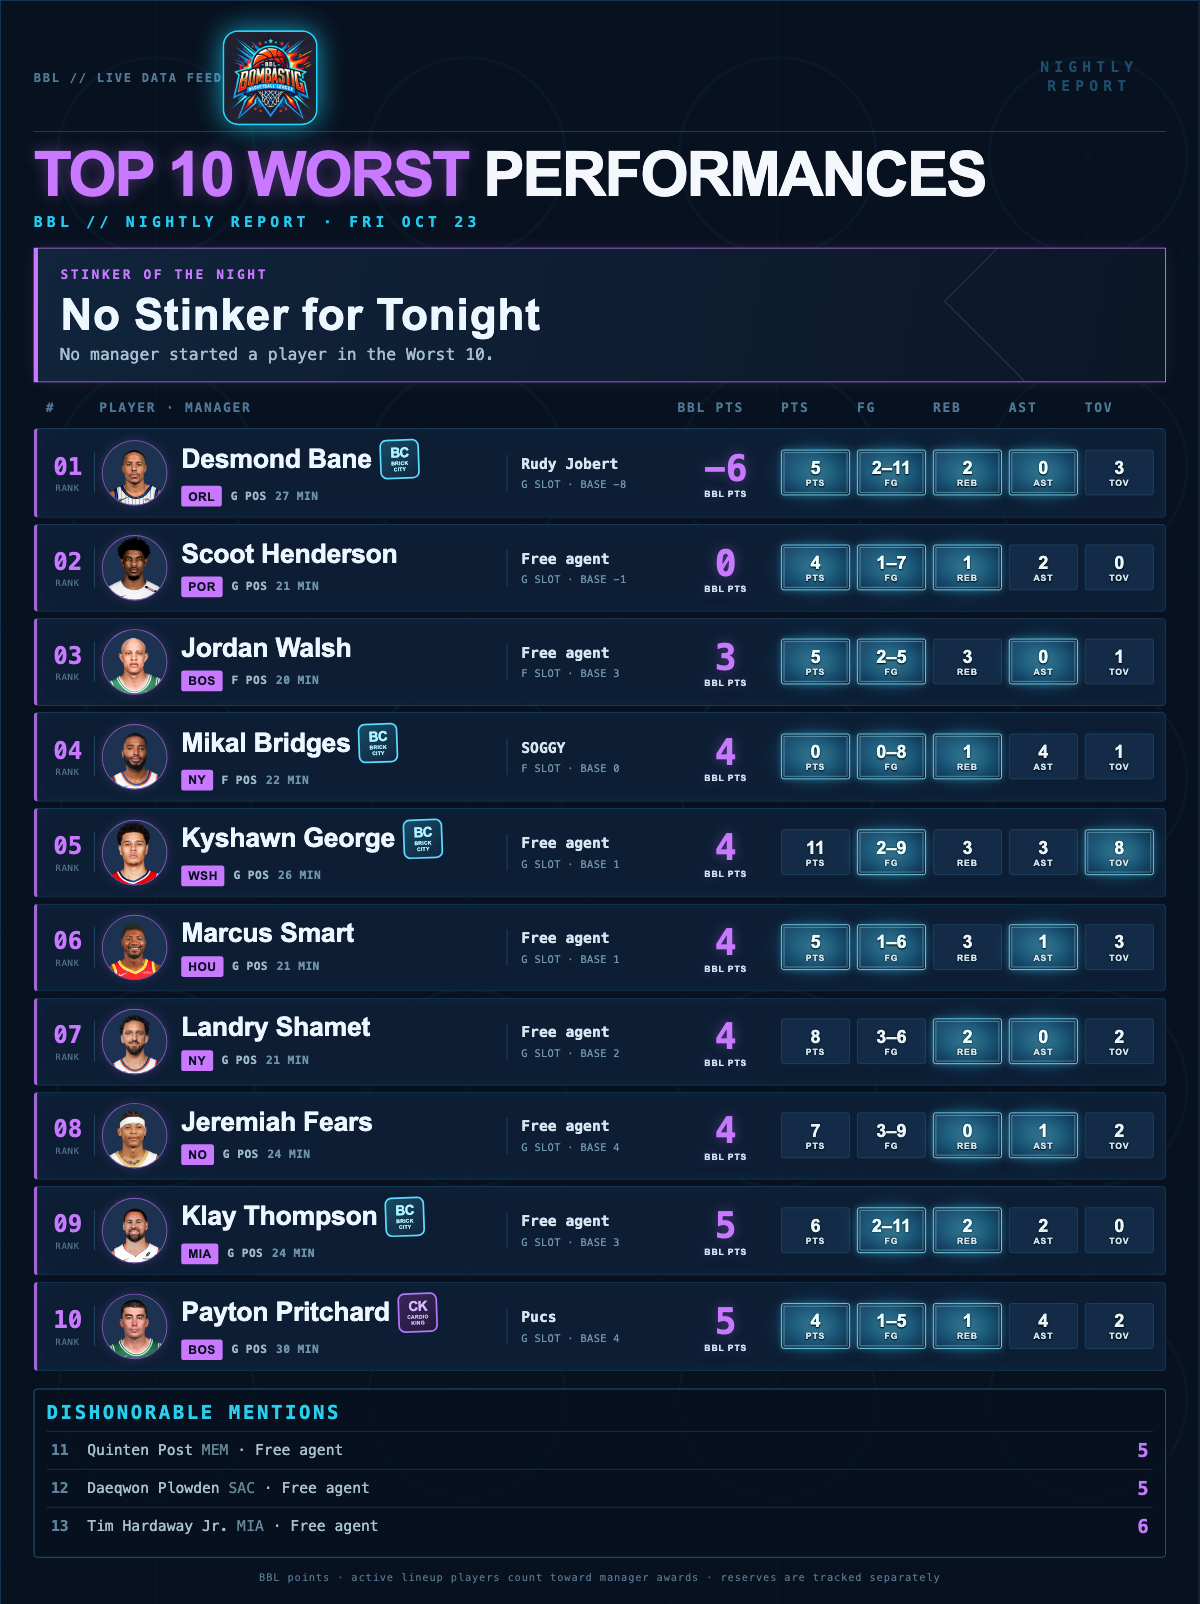
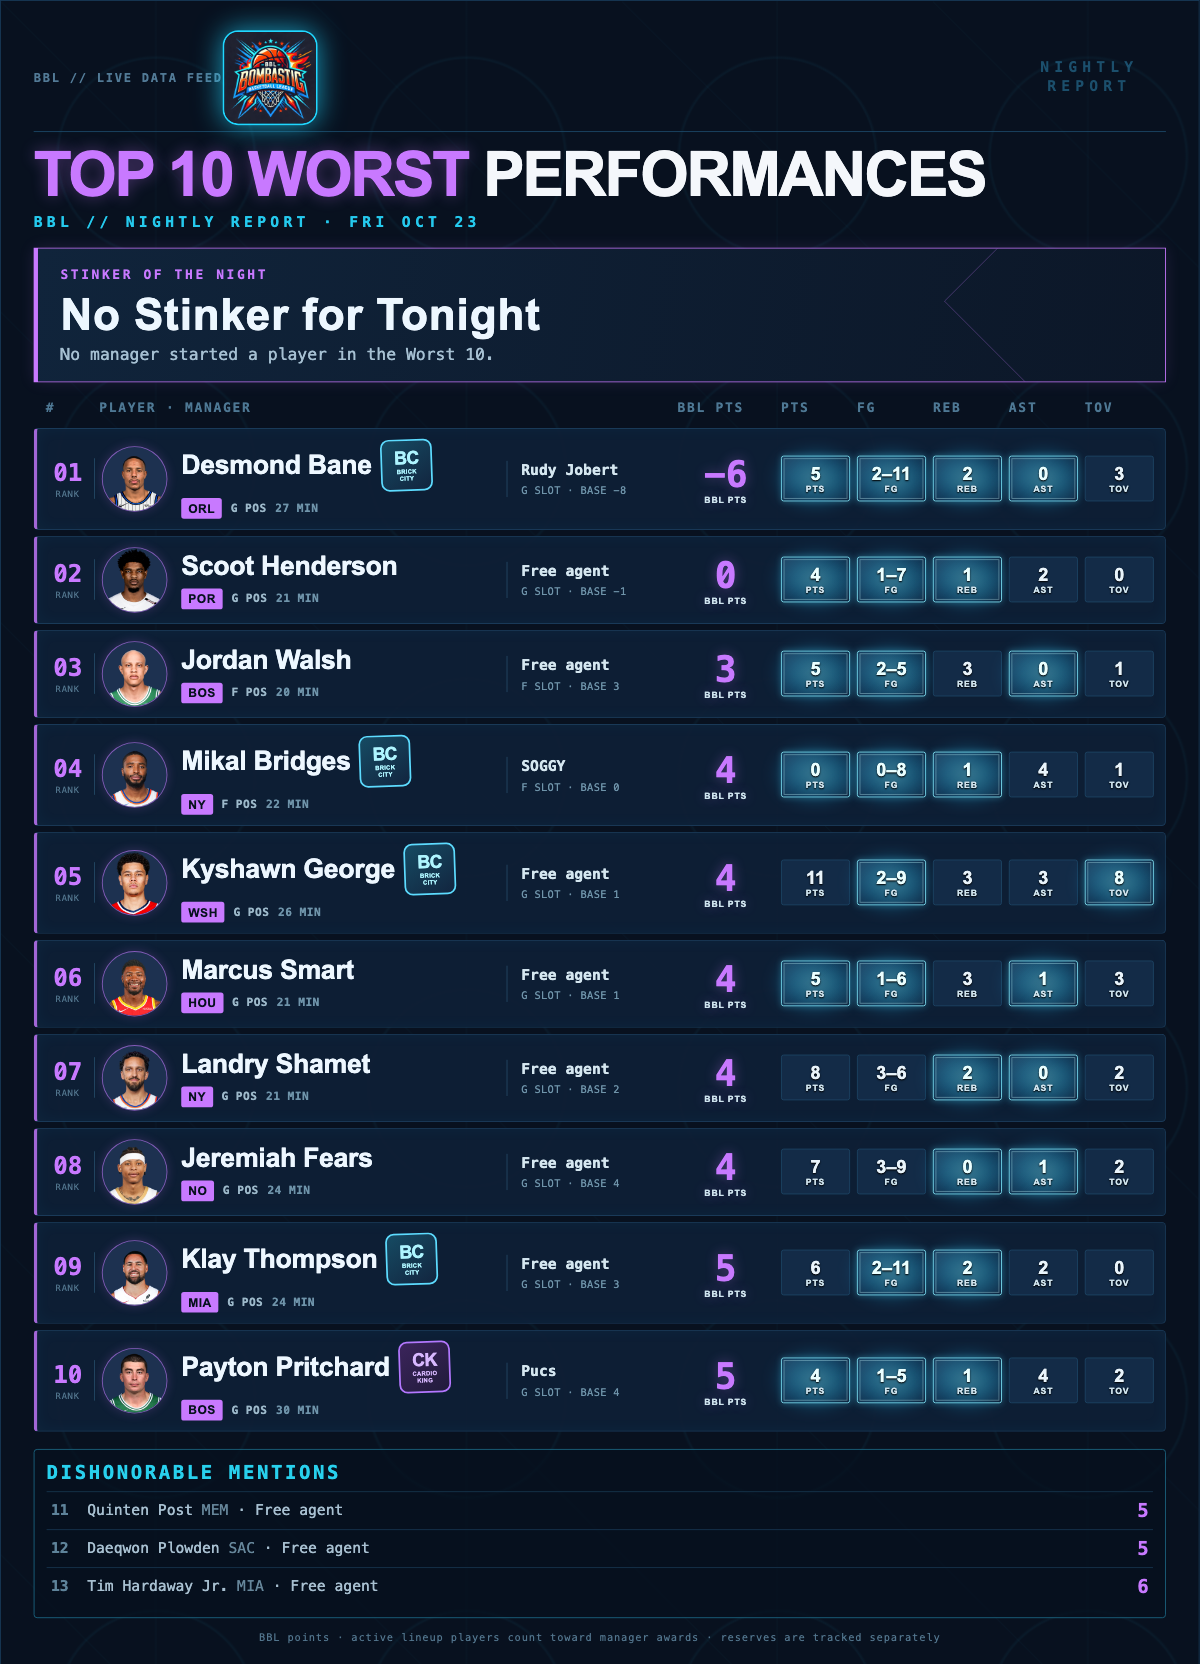
Enlarge square award emblems

diff --git a/bbl/social_cards.py b/bbl/social_cards.py
@@ -149,7 +149,7 @@ h1{{font-size:62px;line-height:.9;margin:0;color:#f4f7fb;letter-spacing:-2px;tex
 .label{{font:700 14px monospace;letter-spacing:3px;color:{accent};text-transform:uppercase}}.award h2{{font-size:42px;letter-spacing:1px;margin:7px 0 3px}}.award p{{font:17px monospace;margin:0;color:#a6c0d2}}
 .cols,.row{{display:grid;grid-template-columns:54px 1fr 112px {stat_columns};gap:8px;align-items:center}}.cols{{padding:0 14px 6px;color:#4e7894;font:700 13px monospace;letter-spacing:2px;text-transform:uppercase}}
 .row{{background:rgba(14,31,53,.94);border:1px solid #1b3c5b;border-left:4px solid {accent}cc;border-radius:5px;padding:9px 12px;margin:6px 0;box-shadow:inset 0 0 18px rgba(30,170,230,.05)}}.row:hover{{border-color:{accent}}}.rank{{font:700 24px monospace;color:{accent};text-align:center;border-right:1px solid #244965;padding-right:8px}}.rank small{{display:block;font:9px monospace;color:#52758d;letter-spacing:1px;margin-top:3px}}
- .who{{display:grid;grid-template-columns:70px minmax(0,1fr) 190px;gap:12px;align-items:center;min-width:0}}.who b{{display:block;font-size:24px;letter-spacing:-.4px;white-space:nowrap;overflow:hidden;text-overflow:ellipsis}}.headshot{{width:66px;height:66px;object-fit:cover;border-radius:50%;background:#1d3150;border:1px solid {accent}99;box-shadow:0 0 12px {accent}33}}.headshot.placeholder{{background:linear-gradient(135deg,#162c47,#0a1627)}}.name-line{{display:flex;align-items:center;gap:9px;min-width:0}}.name-line b{{min-width:0}}.player-meta{{display:flex;align-items:center;gap:8px;margin-top:6px;white-space:nowrap}}.who .team{{display:inline-block;color:#07111e;background:{accent};border-radius:3px;padding:3px 7px;font:800 12px Arial,sans-serif;letter-spacing:.6px}}.position,.minutes{{color:#9db9ca;font:700 12px monospace;letter-spacing:.5px}}.minutes{{color:#6f94aa}}.badge{{display:inline-flex;flex:0 0 auto;width:46px;height:46px;align-items:center;justify-content:center;flex-direction:column;gap:1px;padding:3px;border:2px solid;border-radius:8px;font:900 9px Arial,sans-serif;letter-spacing:.2px;white-space:normal;text-align:center;box-shadow:inset 0 0 10px #ffffff18,0 0 9px currentColor55;transform:rotate(-2deg)}}.badge i{{display:block;background:none;font:900 16px/16px Arial,sans-serif;font-style:normal;letter-spacing:-1px}}.badge strong{{display:block;font:900 6px/7px Arial,sans-serif;letter-spacing:.2px;max-width:40px}}.badge-triple{{color:#74ecff;border-color:#35d8ff;background:linear-gradient(145deg,#123d59,#0b203b)}}.badge-double{{color:#ffd36b;border-color:#ffad32;background:linear-gradient(145deg,#553516,#2b1b25)}}.badge-cardio{{color:#d8b8ff;border-color:#b477ff;background:linear-gradient(145deg,#3b245b,#211b3b)}}.badge-brick{{color:#aef5ff;border-color:#5ddcff;background:linear-gradient(145deg,#164b63,#12253f)}}.details{{min-width:0;border-left:1px solid #244965;padding-left:14px}}.details small{{display:block;color:#d5e7f0;font:700 15px monospace;white-space:nowrap;overflow:hidden;text-overflow:ellipsis}}.details em{{display:block;color:#6f94aa;font:11px monospace;font-style:normal;margin-top:7px;letter-spacing:.4px;white-space:nowrap}}
+ .who{{display:grid;grid-template-columns:70px minmax(0,1fr) 190px;gap:12px;align-items:center;min-width:0}}.who b{{display:block;font-size:24px;letter-spacing:-.4px;white-space:nowrap;overflow:hidden;text-overflow:ellipsis}}.headshot{{width:66px;height:66px;object-fit:cover;border-radius:50%;background:#1d3150;border:1px solid {accent}99;box-shadow:0 0 12px {accent}33}}.headshot.placeholder{{background:linear-gradient(135deg,#162c47,#0a1627)}}.name-line{{display:flex;align-items:center;gap:10px;min-width:0}}.name-line b{{min-width:0}}.player-meta{{display:flex;align-items:center;gap:8px;margin-top:6px;white-space:nowrap}}.who .team{{display:inline-block;color:#07111e;background:{accent};border-radius:3px;padding:3px 7px;font:800 12px Arial,sans-serif;letter-spacing:.6px}}.position,.minutes{{color:#9db9ca;font:700 12px monospace;letter-spacing:.5px}}.minutes{{color:#6f94aa}}.badge{{display:inline-flex;flex:0 0 auto;width:60px;height:60px;align-items:center;justify-content:center;flex-direction:column;gap:2px;padding:4px;border:2px solid;border-radius:10px;font:900 9px Arial,sans-serif;letter-spacing:.2px;white-space:normal;text-align:center;box-shadow:inset 0 0 12px #ffffff18,0 0 12px currentColor66;transform:rotate(-2deg)}}.badge i{{display:block;background:none;font:900 21px/21px Arial,sans-serif;font-style:normal;letter-spacing:-1px}}.badge strong{{display:block;font:900 7px/8px Arial,sans-serif;letter-spacing:.2px;max-width:52px}}.badge-triple{{color:#74ecff;border-color:#35d8ff;background:linear-gradient(145deg,#123d59,#0b203b)}}.badge-double{{color:#ffd36b;border-color:#ffad32;background:linear-gradient(145deg,#553516,#2b1b25)}}.badge-cardio{{color:#d8b8ff;border-color:#b477ff;background:linear-gradient(145deg,#3b245b,#211b3b)}}.badge-brick{{color:#aef5ff;border-color:#5ddcff;background:linear-gradient(145deg,#164b63,#12253f)}}.details{{min-width:0;border-left:1px solid #244965;padding-left:14px}}.details small{{display:block;color:#d5e7f0;font:700 15px monospace;white-space:nowrap;overflow:hidden;text-overflow:ellipsis}}.details em{{display:block;color:#6f94aa;font:11px monospace;font-style:normal;margin-top:7px;letter-spacing:.4px;white-space:nowrap}}
 .score{{color:{accent};font:800 31px monospace;text-align:center;text-shadow:0 0 15px {accent}55}}.score small,.stat small{{display:block;font:8px monospace;color:#7394aa;letter-spacing:1px}}.stat{{position:relative;z-index:1;background:#132b47;border:1px solid #1d4564;border-radius:3px;text-align:center;padding:5px 2px;font:700 16px monospace;overflow:visible;isolation:isolate}}.stat.hot{{border:2px solid #ffad32;box-shadow:0 0 5px #ffb000,0 0 15px #ff4b1f99;color:#fff8dd;background:linear-gradient(180deg,#5b2417,#261925)}}.stat.hot:before{{content:"";position:absolute;z-index:-1;left:-8px;right:-8px;top:-15px;bottom:-9px;background:linear-gradient(150deg,#ffd45a 0 10%,transparent 11% 22%,#ff7a18 23% 35%,transparent 36% 49%,#ff3219 50% 64%,transparent 65% 78%,#ff9b20 79% 90%,transparent 91%);clip-path:polygon(0 100%,3% 54%,16% 68%,18% 20%,29% 52%,42% 0,53% 49%,66% 14%,75% 53%,89% 5%,94% 59%,100% 35%,100% 100%);filter:drop-shadow(0 0 8px #ff4b1f);pointer-events:none}}.stat.hot:after{{content:"";position:absolute;inset:2px;border:1px solid #ffd36b99;background:linear-gradient(180deg,transparent,#ff5a1a33);pointer-events:none}}.stat.cold{{border:2px solid #b9fbff;box-shadow:0 0 6px #b9fbff,0 0 18px #28cfff99;color:#edffff;background:linear-gradient(135deg,#d8ffff 0 4%,#3caed2 6% 12%,#153b5b 13% 82%,#0a223b 83%)}}.stat.cold:before{{content:"";position:absolute;z-index:-1;inset:-7px;background:linear-gradient(135deg,#dfffff,#55e9ff 20%,#135b88 48%,#a9f8ff 72%,#1b719c);clip-path:polygon(0 8%,18% 15%,28% 0,43% 13%,59% 3%,74% 17%,100% 7%,88% 31%,100% 50%,87% 66%,100% 93%,76% 84%,63% 100%,48% 87%,28% 100%,19% 85%,0 94%,11% 69%,0 51%,12% 32%);filter:drop-shadow(0 0 7px #46eaff);pointer-events:none}}.stat.cold:after{{content:"";position:absolute;inset:2px;background:linear-gradient(125deg,transparent 27%,#e7ffff99 28% 31%,transparent 32% 56%,#bdfaff77 57% 60%,transparent 61%);pointer-events:none}}.stat span{{position:relative;z-index:1}}.stat small{{position:relative;z-index:1}}.stat:not(.hot):not(.cold) span{{color:#e9f4fb}}.stat:not(.hot):not(.cold){{color:#fff}}
 .section{{border:1px solid #1c6682;border-radius:4px;margin-top:18px;padding:13px;background:rgba(5,17,31,.72)}}.section h3{{color:#28d0ed;font:700 19px monospace;letter-spacing:3px;margin:0 0 8px}}.mention{{display:grid;grid-template-columns:42px 1fr 70px;align-items:center;border-top:1px solid #17354e;padding:8px 4px;color:#a8c0d1;font:15px monospace}}.mention b{{color:#5e839a}}.mention i{{font-style:normal;color:#66869a}}.mention strong{{color:{accent};text-align:right;font:700 20px monospace}}
  footer{{margin-top:18px;text-align:center;color:#52758d;font:11px monospace;letter-spacing:1px}}
